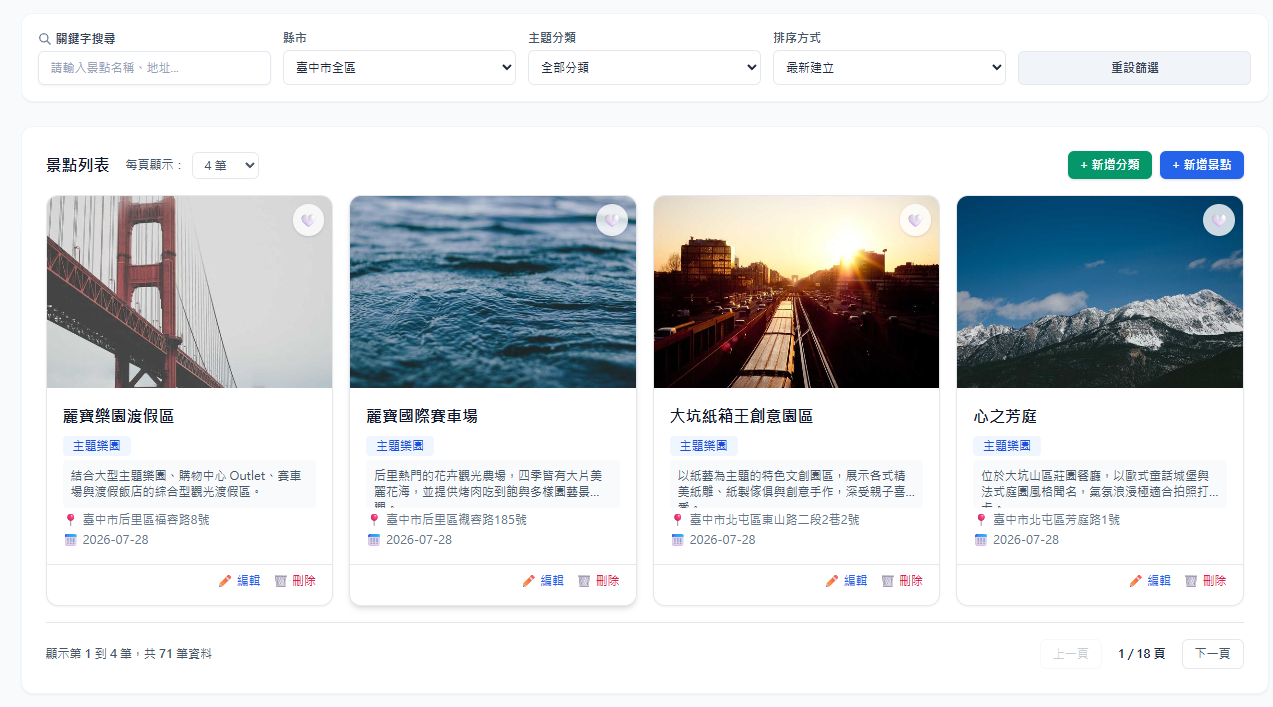
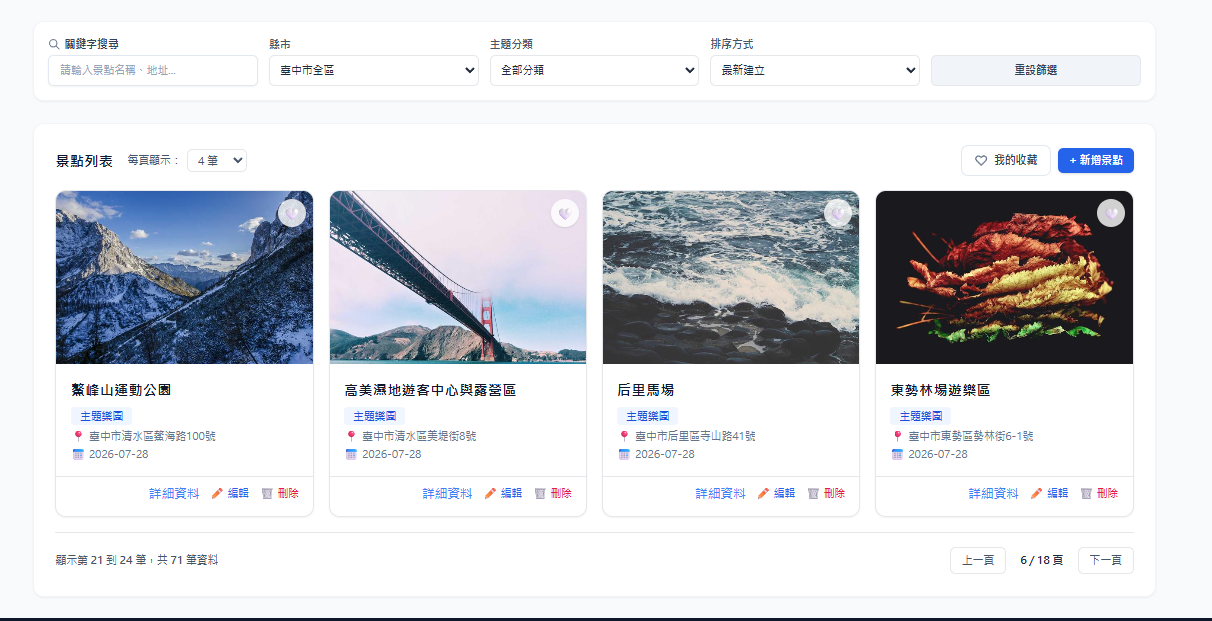
專案完整上傳

diff --git a/routes/web.php b/routes/web.php
@@ -1,9 +1,8 @@
 <?php
 
 use Illuminate\Support\Facades\Route;
-use App\Http\Controllers\AttractionController;
+use App\Http\Controllers\Api\AttractionController;
 
-// 1. 根目錄首頁路由（對應 resources/views/dashboard.blade.php）
 Route::get('/', function () {
     return view('dashboard');
 })->name('login');

diff --git a/README.md b/README.md
@@ -1,114 +1,120 @@
 # AI 輔助旅遊景點推薦平台 (AI Travel Guide Website)
 
+![Vue.js](https://img.shields.io/badge/Vue.js-3.X-4FC08D?style=for-the-badge&logo=vuedotjs&logoColor=white)
+![Laravel](https://img.shields.io/badge/Laravel-11.X-FF2D20?style=for-the-badge&logo=laravel&logoColor=white)
+![Tailwind CSS](https://img.shields.io/badge/Tailwind_CSS-3.X-38B2AC?style=for-the-badge&logo=tailwind-css&logoColor=white)
+![MySQL](https://img.shields.io/badge/MySQL-8.X-4479A1?style=for-the-badge&logo=mysql&logoColor=white)
+
 ## 專案簡介
 
-本專案為一款結合 AI 應用與現代網頁開發技術的**旅遊景點推薦系統**。專案完整涵蓋前端介面設計、互動式使用者體驗、後端 API 資料處理，以及基礎資料統計。系統提供景點瀏覽、關鍵字搜尋、多維度分類篩選、景點資料管理（CRUD）、AI 旅遊建議及數據圖表展示等核心功能，致力於打造直覺且充滿靈感的旅遊規劃體驗。
+本專案為一款結合 AI 應用與現代網頁開發技術的旅遊景點推薦系統。專案完整涵蓋前端互動介面設計、後端 RESTful API 開發，以及資料庫關聯設計。
+
+系統不僅提供景點瀏覽、多維度關鍵字篩選，更具備完整的會員驗證機制 (Authentication) 與專屬個人資料隔離 (Authorization)。透過 AI 輔助生成的高質感文案與視覺素材，致力於打造直覺、流暢且充滿靈感的旅遊規劃體驗。
 
 ---
 
 ## 技術堆疊 (Tech Stack)
 
 ### 前端技術 (Frontend)
-* **核心框架**：Vue.js (Composition API)
-* **UI 樣式與排版**：HTML5, Tailwind CSS
-* **非同步請求**：JavaScript (Fetch / Axios)
+* 核心框架：Vue.js (Composition API)
+* UI 樣式與排版：HTML5, Tailwind CSS, 響應式設計 (RWD)
+* 狀態與資料請求：JavaScript (Fetch API), JWT Token 管理
+* 資料視覺化：Chart.js
 
 ### 後端技術 (Backend)
-* **核心框架**：PHP, Laravel Framework
+* 核心框架：PHP, Laravel Framework
+* API 架構：RESTful API 設計風格
+* 驗證機制：Token-based Authentication (使用者註冊/登入授權)
 
 ### 資料庫與工具 (Database & Tools)
-* **資料庫**：MySQL (透過 phpMyAdmin 進行視覺化管理)
-* **AI 輔助工具**：ChatGPT / Gemini (文案生成、提示詞設計)、AI 圖像生成工具 (網站 Banner 與高解析度景點封面圖產出)
+* 資料庫：MySQL (透過 phpMyAdmin 進行視覺化管理)
+* AI 輔助工具：ChatGPT / Gemini (文案生成、提示詞設計)、Midjourney / DALL·E (高解析度景點圖與 Banner 產出)
 
 ---
 
 ## 系統核心功能 (Core Features)
 
-### 1. 互動式首頁與導覽
+### 1. 互動式首頁與視覺導覽
 提供高質感的品牌視覺 Banner、熱門景點與美食推薦區塊，並具備直覺的快速導覽列，引導使用者快速尋找旅遊靈感。
-<!-- 請將下方連結替換為你的實際圖片路徑 -->
-![首頁與Banner展示](./screenshots/home-banner.png)
+<!-- ![首頁與Banner展示]() -->
 
-### 2. 智慧化景點檢索系統
-支援關鍵字即時搜尋、城市與地區篩選、分類標籤（如：自然、人文、美食）與排序功能，協助使用者精準定位行程。
-<!-- 請將下方連結替換為你的實際圖片路徑 -->
-![景點檢索與篩選](./screenshots/search-filter.png)
+### 2. 會員驗證與專屬工作區 (Data Isolation)
+實作會員註冊與登入功能，採用 Bearer Token 進行 API 請求驗證。嚴格把關後端權限，確保每位使用者登入後，只能檢視、編輯與統計「屬於自己」的景點與分類資料，保障資料隱私。
 
-### 3. 後台景點管理 (CRUD)
-提供景點新增 (Create)、讀取 (Read)、修改 (Update) 與刪除 (Delete) 功能。表單內建完整的前端防呆驗證，並提供明確的操作成功/失敗狀態回饋。
-<!-- 請將下方連結替換為你的實際圖片路徑 -->
-![後台景點管理](./screenshots/admin-crud.png)
+### 3. 智慧化景點檢索系統
+支援關鍵字即時搜尋（針對名稱與地址）、縣市地區精準篩選、動態分類標籤，以及自訂排序功能，協助使用者在龐大資料中精準定位行程。
+<!-- ![景點檢索與篩選](./screenshots/search-filter.png) -->
 
-### 4. 數據統計與視覺化
-直觀展示各城市景點的數量分佈、熱門程度及不同景點分類的佔比統計，將繁雜數據轉化為視覺化圖表。
-<!-- 請將下方連結替換為你的實際圖片路徑 -->
-![數據統計圖表](./screenshots/data-dashboard.png)
+### 4. 景點與分類管理後台 (CRUD)
+提供完整的資料管理能力。包含景點與分類的新增 (Create)、讀取 (Read)、修改 (Update) 與刪除 (Delete)。
+表單內建嚴謹的前後端雙重防呆驗證（例如：地址必須同時包含縣市與行政區），並提供明確的操作狀態回饋 (Toast/Alert)。
+<!-- ![後台景點管理](./screenshots/admin-crud.png) -->
+
+### 5. 個人化儀表板與數據統計
+系統會根據當前登入使用者的收藏與建立紀錄，直觀展示各城市景點的分佈狀態，並利用 Chart.js 將分類佔比轉化為圓餅圖與長條圖，讓繁雜數據一目了然。
+<!-- ![數據統計圖表](./screenshots/data-dashboard.png) -->
 
 ---
 
 ## 資料庫架構 (Database Schema)
 
-系統核心資料庫包含以下重要資料表設計：
+系統核心採用關聯式資料庫設計，確保資料的一致性與完整性，並透過 user_id 作為資料隔離的基礎：
 
-**`attractions` (景點資料表)**
-* `id` (INT, Primary Key) - 景點唯一識別碼
-* `name` (VARCHAR) - 景點名稱
-* `city` (VARCHAR) - 所在城市/地區
-* `category` (VARCHAR) - 景點分類（如：自然、人文、美食）
-* `image_url` (VARCHAR) - 景點圖片網址
-* `feature` (TEXT) - 景點特色介紹
-* `created_at` / `updated_at` (TIMESTAMP) - 建立與更新時間
+* users (會員資料表)：儲存使用者帳號、密碼雜湊與基本資訊。
+* categories (分類資料表)：使用者自訂的景點分類，關聯至特定 user_id。
+* attractions (景點資料表)：
+  * 包含 name、city、image_url、description 等欄位。
+  * 具備外鍵關聯至 user_id (擁有者) 與 category_id (所屬分類)。
+* favorite_attraction (收藏關聯表)：多對多 (Many-to-Many) 關聯表，記錄使用者收藏了哪些特定景點。
 
-**`favorites` (關聯資料表)**
-* 用以支援會員收藏或分類管理機制。
-
-<!-- 請將下方連結替換為你的實際圖片路徑 -->
-![資料庫架構圖](./screenshots/database-schema.png)
+<!-- ![資料庫架構圖](./screenshots/database-schema.png) -->
 
 ---
 
 ## API 路由設計 (API Endpoints)
 
-後端提供以下 RESTful API 供前端互動與資料非同步請求：
+後端提供完整且具備安全驗證的 RESTful API 供前端介接（所有需授權的路由皆須於 Header 夾帶 JWT Token）：
 
-* `GET /api/attractions` - 取得所有景點資料列表
-* `GET /api/attractions/{id}` - 取得指定單一景點詳細資訊
-* `POST /api/attractions` - 新增一筆景點資料
-* `PUT /api/attractions/{id}` - 更新指定景點資料
-* `DELETE /api/attractions/{id}` - 刪除指定景點資料
+| HTTP 方法 | 路由端點 (Endpoint) | 功能說明 | 權限要求 |
+| :--- | :--- | :--- | :--- |
+| POST | `/api/register` | 會員註冊 | 無 |
+| POST | `/api/login` | 會員登入並獲取 Token | 無 |
+| GET | `/api/attractions` | 取得景點列表 (支援分頁與搜尋參數) | 需登入 |
+| POST | `/api/attractions` | 新增個人景點 | 需登入 |
+| PUT | `/api/attractions/{id}` | 更新特定景點資料 | 需登入 (僅限擁有者) |
+| DELETE| `/api/attractions/{id}` | 刪除特定景點 | 需登入 (僅限擁有者) |
+| GET | `/api/attractions/statistics`| 取得儀表板統計圖表數據 | 需登入 |
 
-<!-- 請將下方連結替換為你的實際圖片路徑 -->
-![Postman API 測試紀錄](./screenshots/api-testing.png)
+<!-- ![Postman API 測試紀錄](./screenshots/api-testing.png) -->
 
 ---
 
-## AI 功能應用 (AI Integration)
+## AI 應用場景 (AI Integration)
 
-* **文案生成**：運用生成式 AI（ChatGPT / Gemini）協助撰寫吸引人的景點介紹文案與旅遊推薦標語，降低內容產出成本並提升吸睛度。
-* **視覺素材**：使用 AI 圖像生成工具產出高解析度（1024x576 以上）的網站 Banner 與景點封面圖，大幅提升整體視覺質感與一致性。
+* 文案生成與潤飾：運用生成式 AI（ChatGPT / Gemini）協助撰寫吸引人的景點介紹、提示詞設計及測試假資料產出，降低內容產出成本。
+* 視覺素材生成：使用 AI 圖像生成工具產出高解析度的網站 Banner 與預設景點封面圖，大幅提升專案整體的視覺質感與一致性。
 
 ---
 
 ## 系統測試紀錄 (Testing Documentation)
 
-### 測試項目一：景點新增表單防呆與驗證測試
-* **測試情境**：於後台嘗試送出空白或格式錯誤的景點名稱/欄位。
-* **預期與實際結果**：系統成功阻擋無效請求，並於前端介面對應之輸入框下方顯示紅色錯誤提示文字；填寫正確完畢後，成功送出並平順跳轉回列表頁，確保資料庫寫入的完整性。
-<!-- 請將下方連結替換為你的實際圖片路徑 -->
-![表單驗證測試](./screenshots/form-validation.png)
+### 測試項目一：表單防呆與資料驗證 (Validation Testing)
+* 測試情境：於新增景點時，刻意輸入不完整的地址（缺少縣市或行政區），或留空必填欄位。
+* 實際結果：後端 Laravel Request Validation 成功攔截無效請求 (422 Unprocessable Entity)，前端接收錯誤後，精準在對應的輸入框下方顯示紅色錯誤提示，有效維持資料庫的資料品質。
+<!-- ![表單驗證測試](./screenshots/form-validation.png) -->
 
-### 測試項目二：RWD 響應式排版與跨裝置斷點測試
-* **測試情境**：使用瀏覽器開發者工具，分別模擬桌面版 (1200px)、平板版 (768px) 及手機版 (375px) 檢視系統介面。
-* **預期與實際結果**：各尺寸斷點下的版面元素皆能自動適應縮放，無跑版或水平捲軸溢出狀況。導覽列於行動裝置上順利轉換為收合式漢堡選單，確保跨裝置體驗的一致性。
-<!-- 請將下方連結替換為你的實際圖片路徑 -->
-![RWD測試結果](./screenshots/rwd-testing.png)
+### 測試項目二：RWD 響應式排版與跨裝置測試 (Responsive Web Design)
+* 測試情境：模擬桌面版 (1200px)、平板版 (768px) 及手機版 (375px) 檢視系統介面。
+* 實際結果：各尺寸斷點下的版面皆能自動適應。手機版導覽列順利轉換為收合式漢堡選單，Grid 卡片排版從四欄自動轉為單欄，無水平捲軸溢出狀況。
+<!-- ![RWD測試結果](./screenshots/rwd-testing.png) -->
 
 ---
 
 ## 快速啟動 (Getting Started)
 
-若想在本地端運行此專案，請參考以下步驟：
+若想在本地端運行此專案，請確保您的環境已安裝 PHP (8.2+), Composer, Node.js, MySQL 以及本地伺服器環境 (如 XAMPP / Laragon)。
 
-1. **克隆專案**：
-   ```bash
-   git clone [https://github.com/你的帳號/你的專案名稱.git](https://github.com/你的帳號/你的專案名稱.git)
+### 1. 取得專案程式碼
+```bash
+git clone [https://github.com/你的帳號/你的專案名稱.git](https://github.com/你的帳號/你的專案名稱.git)
+cd 你的專案名稱
